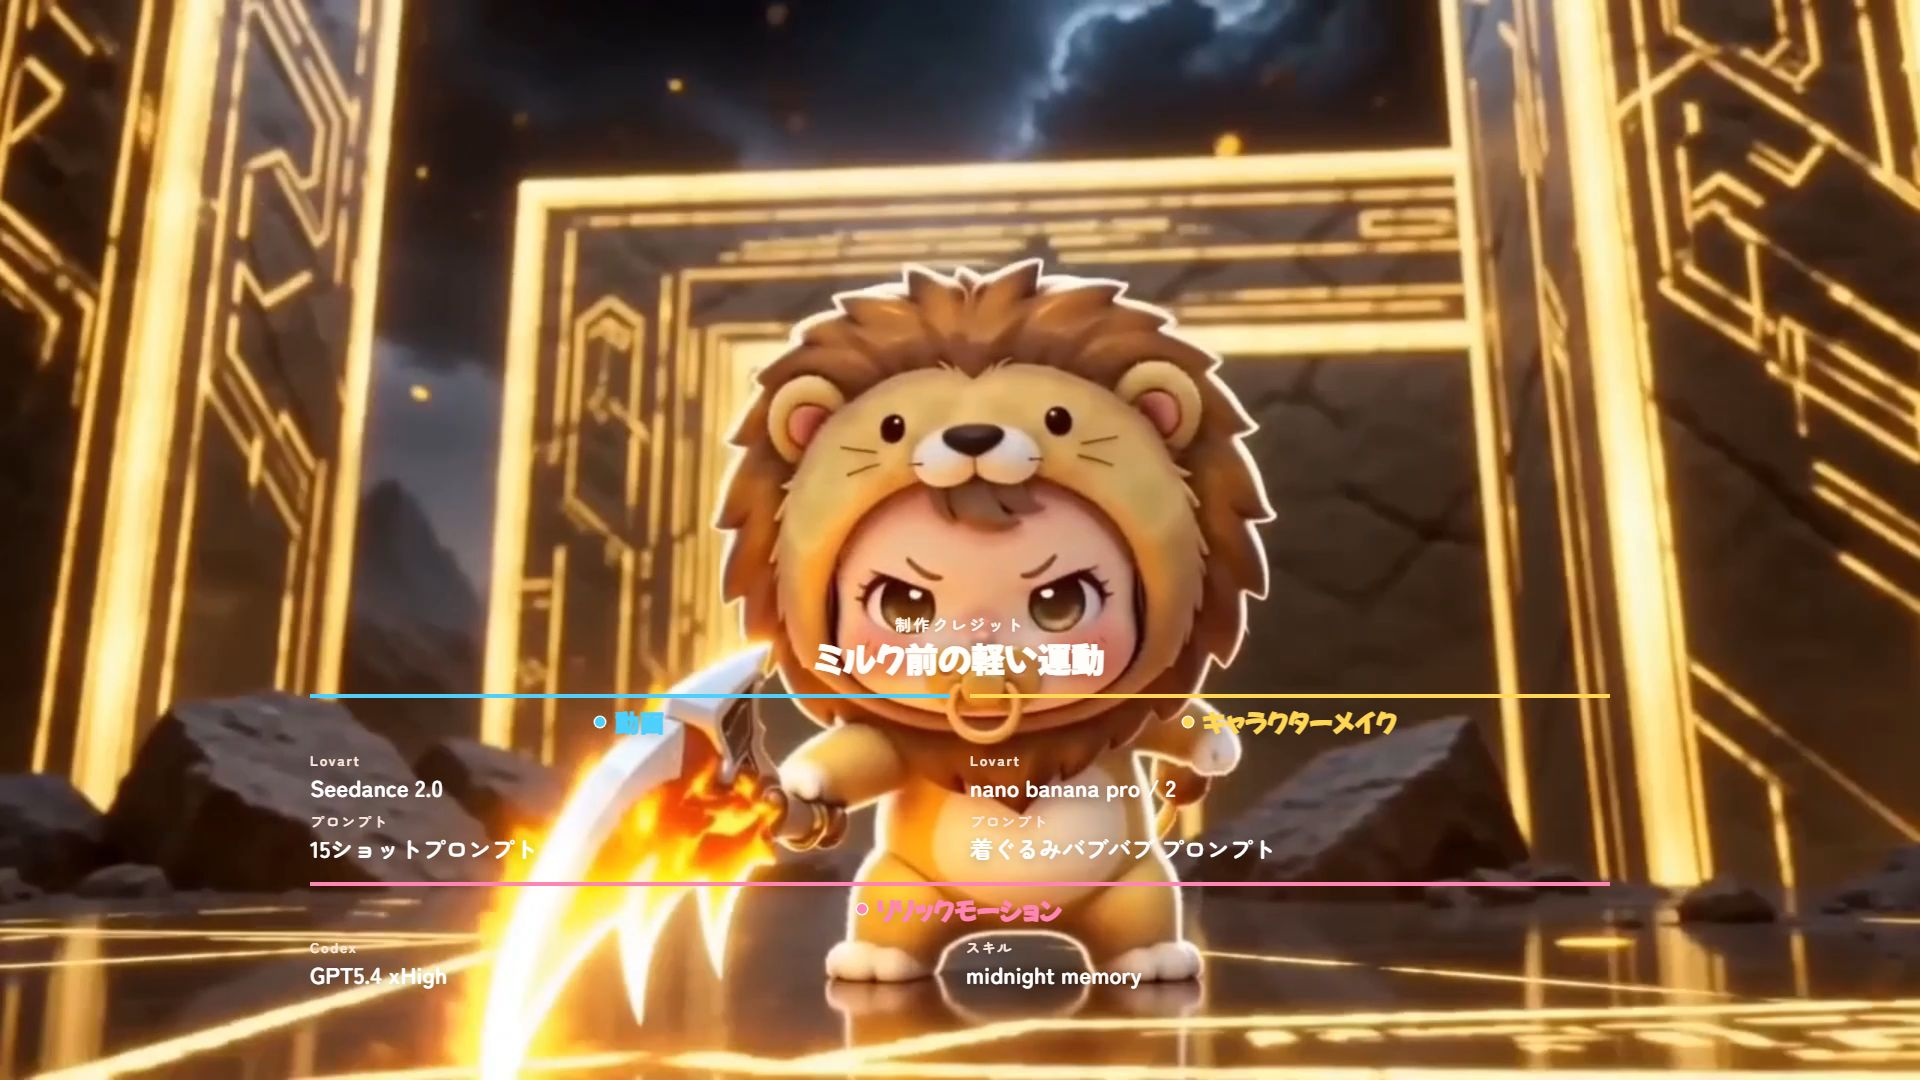
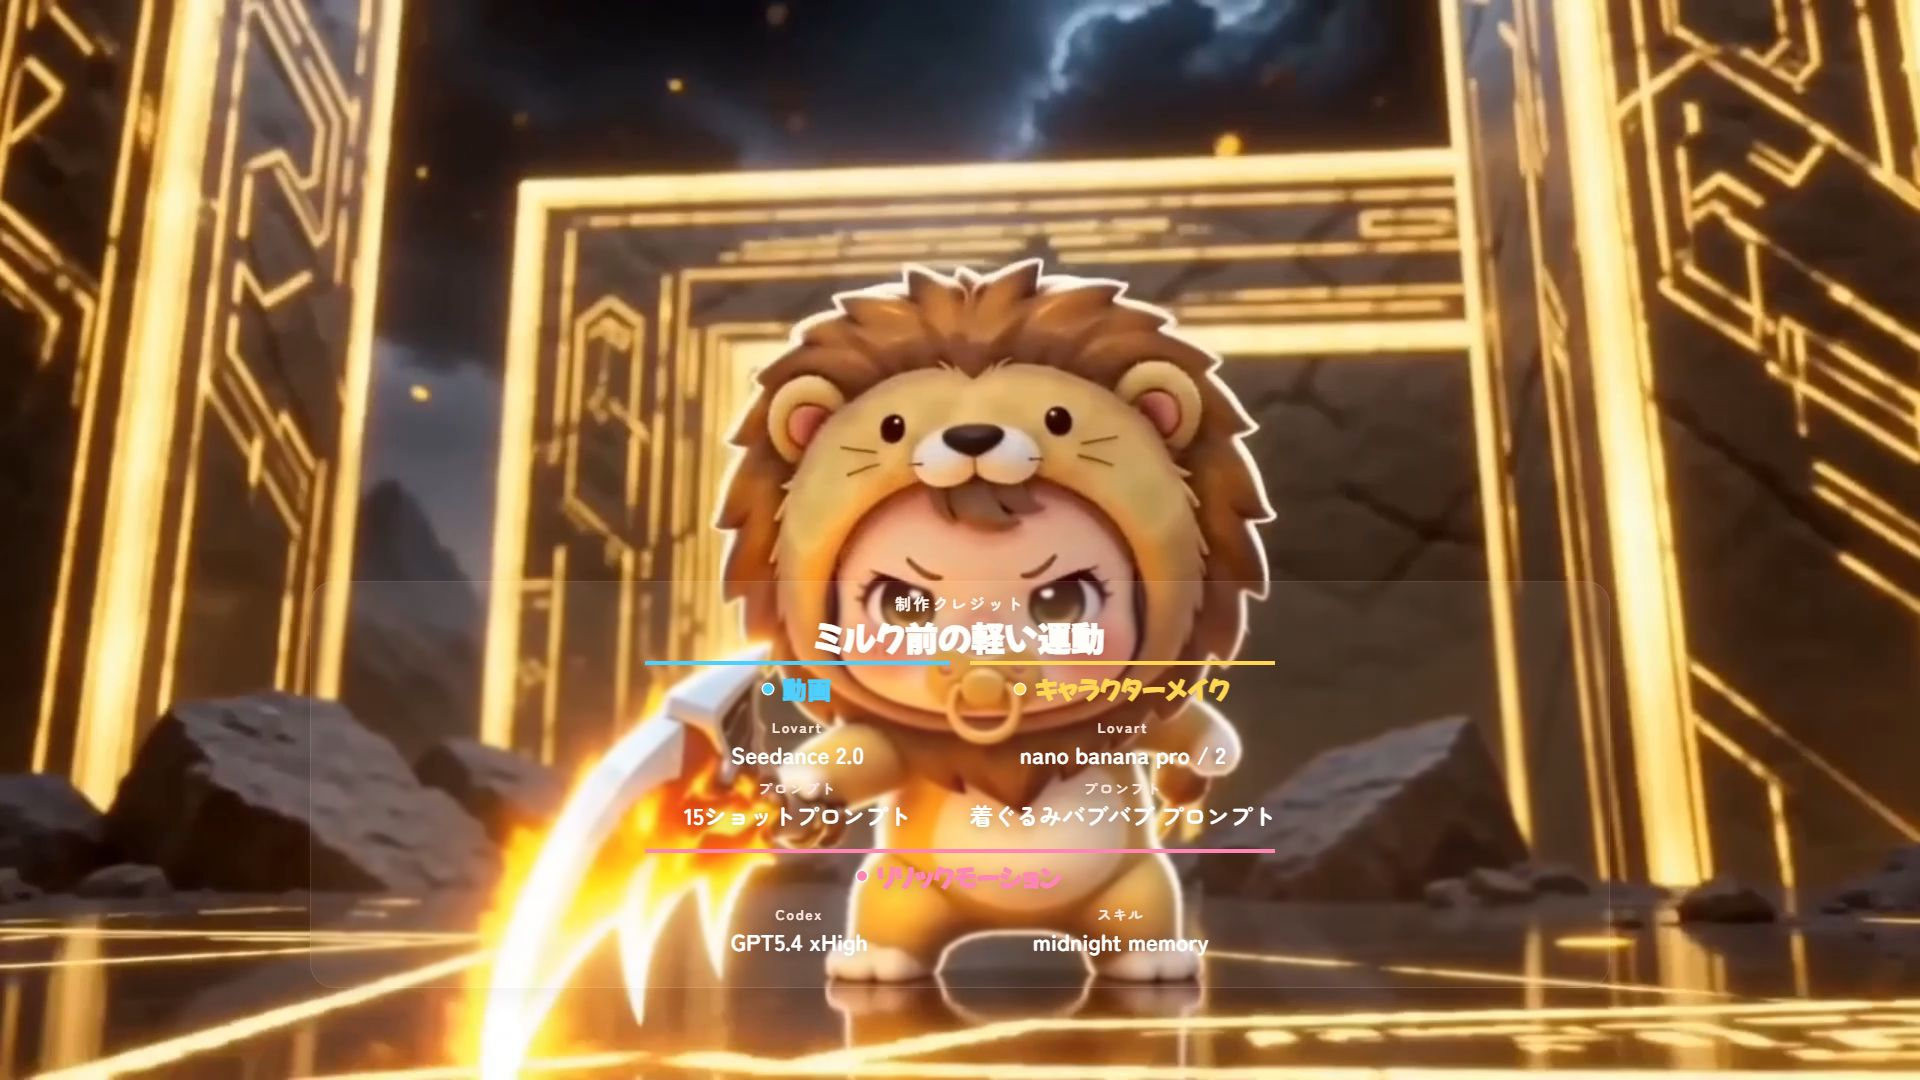
Add subtle credit backdrop to Candy Marquee

Changed region(s): [[0.1562, 0.55, 0.8438, 0.9167], [0.1562, 0.8556, 0.25, 0.9167]]

diff --git a/remotion-app/src/compositions/shared/OverlayMotionTemplate.jsx b/remotion-app/src/compositions/shared/OverlayMotionTemplate.jsx
@@ -596,6 +596,21 @@ const CreditBoard = ({endMs, startMs, theme, videoMetadata}) => {
     ...section,
     accent: theme.credit.sectionAccents[index % theme.credit.sectionAccents.length],
   }));
+  const creditBackdropStyle = theme.credit.backdrop
+    ? {
+        backdropFilter: theme.credit.backdrop.backdropBlur
+          ? `blur(${theme.credit.backdrop.backdropBlur}px)`
+          : undefined,
+        background: theme.credit.backdrop.background,
+        border: theme.credit.backdrop.border,
+        borderRadius: theme.credit.backdrop.borderRadius,
+        boxShadow: theme.credit.backdrop.shadow,
+        padding: theme.credit.backdrop.padding,
+        width: theme.credit.backdrop.fitContent ? "fit-content" : "100%",
+      }
+    : {
+        width: "100%",
+      };
 
   return (
     <AbsoluteFill style={{pointerEvents: "none"}}>
@@ -610,16 +625,17 @@ const CreditBoard = ({endMs, startMs, theme, videoMetadata}) => {
           ...anchorY,
         }}
       >
-        <div
-          style={{
-            ...headingAlign,
-            display: "flex",
-            flexDirection: "column",
-            gap: 6,
-            marginBottom: theme.credit.headingGap,
-            width: "100%",
-          }}
-        >
+        <div style={creditBackdropStyle}>
+          <div
+            style={{
+              ...headingAlign,
+              display: "flex",
+              flexDirection: "column",
+              gap: 6,
+              marginBottom: theme.credit.headingGap,
+              width: "100%",
+            }}
+          >
           <div
             style={{
               color: theme.credit.eyebrowColor,
@@ -646,25 +662,26 @@ const CreditBoard = ({endMs, startMs, theme, videoMetadata}) => {
           >
             {MOTION_TITLE.main}
           </div>
+          <div
+            style={{
+              display: "grid",
+              gap: theme.credit.gridGap,
+              gridTemplateColumns:
+                theme.credit.layout === "stack" || compact
+                  ? "minmax(0, 1fr)"
+                  : "repeat(2, minmax(0, 1fr))",
+            }}
+          >
+            {sections.map((section) => (
+              <CreditSection
+                compact={compact}
+                key={section.title}
+                section={section}
+                theme={theme}
+              />
+            ))}
+          </div>
         </div>
-        <div
-          style={{
-            display: "grid",
-            gap: theme.credit.gridGap,
-            gridTemplateColumns:
-              theme.credit.layout === "stack" || compact
-                ? "minmax(0, 1fr)"
-                : "repeat(2, minmax(0, 1fr))",
-          }}
-        >
-          {sections.map((section) => (
-            <CreditSection
-              compact={compact}
-              key={section.title}
-              section={section}
-              theme={theme}
-            />
-          ))}
         </div>
       </div>
     </AbsoluteFill>

diff --git a/remotion-app/src/compositions/variants/Variant07CandyMarqueeConcept.jsx b/remotion-app/src/compositions/variants/Variant07CandyMarqueeConcept.jsx
@@ -53,6 +53,15 @@ const theme = {
     align: "center",
     allowWide: true,
     anchor: "bottom",
+    backdrop: {
+      background: "linear-gradient(180deg, rgba(255, 248, 236, 0.08) 0%, rgba(255, 232, 214, 0.05) 100%)",
+      backdropBlur: 1.5,
+      border: "1px solid rgba(255,255,255,0.10)",
+      borderRadius: 24,
+      fitContent: false,
+      padding: "12px 18px 14px",
+      shadow: "0 8px 24px rgba(78, 44, 33, 0.06)",
+    },
     bodyFont: "zen",
     bottomRatio: 0.085,
     compactThreshold: 1180,
